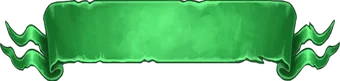
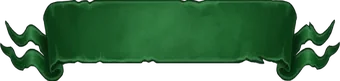
Tone down OOA counter ribbon brightness, fix vertical centering
tag-success-green was hue-remapped from the danger-red ribbon at the
same HSV value, but green reads far brighter than red at equal value —
rebalanced value/saturation to match the red/leader ribbon's perceived
luminance. Also dropped the asymmetric +/-2px padding tweak on
.status-switch so its text sits at the same relative height as
.badge--leader within the ribbon artwork.

Claude-Session: https://claude.ai/code/session_01R5vggCfikEC3MyyUj5XYtq

diff --git a/src/index.css b/src/index.css
@@ -1312,7 +1312,7 @@ button {
   font-weight: 700;
   text-transform: uppercase;
   letter-spacing: 0.03em;
-  padding: calc(0.15rem + 2px) 1.5rem calc(0.5rem - 2px);
+  padding: 0.15rem 1.5rem 0.5rem;
   border-radius: 4px;
   border: none;
   background: transparent;
